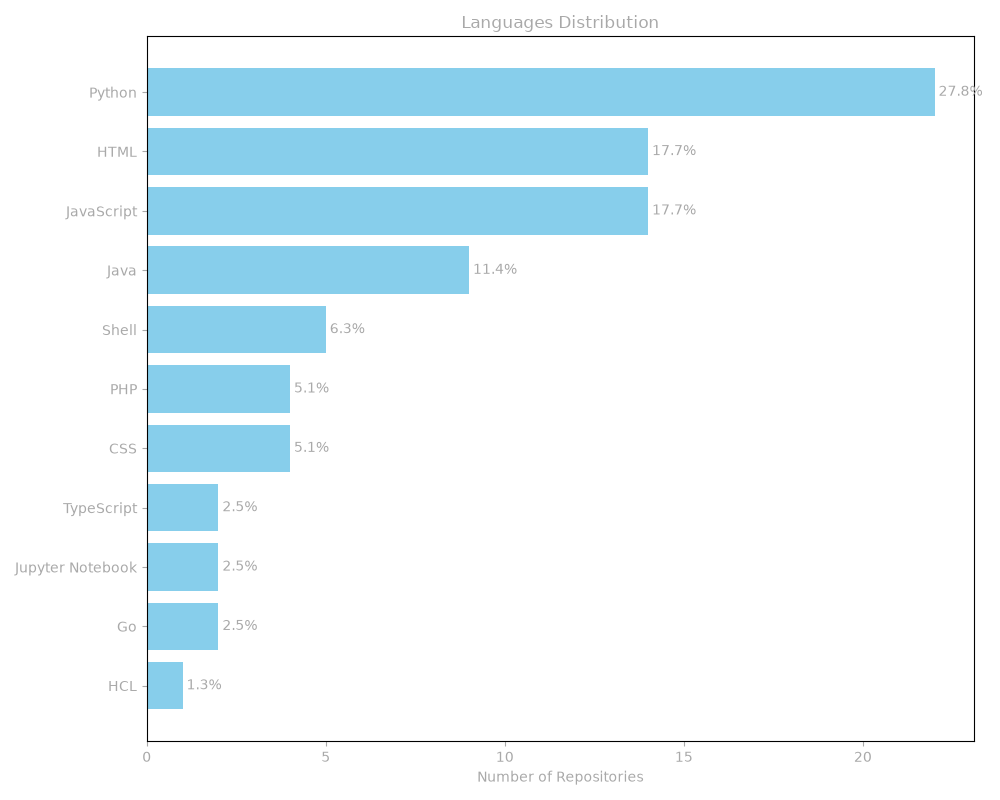
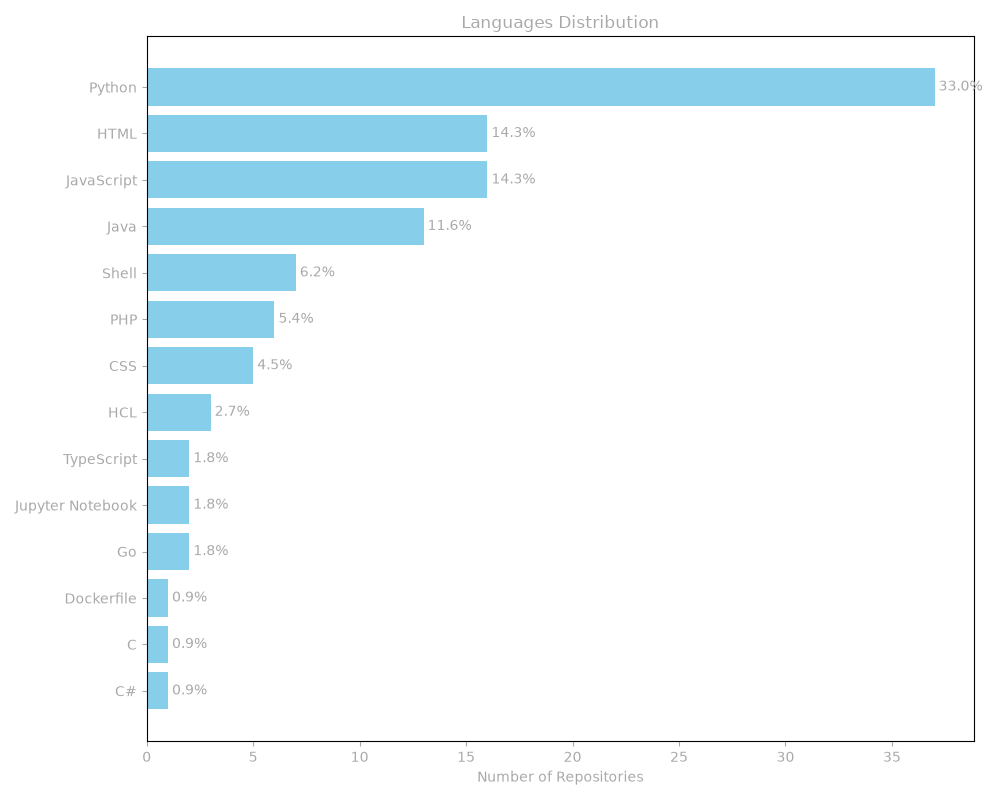
Update GitHub profile

Changed region(s): [[0.0, 0.0938, 0.93, 0.9062], [0.93, 0.0938, 0.992, 0.125], [0.868, 0.9375, 0.899, 0.9688]]

diff --git a/README.md b/README.md
@@ -31,14 +31,12 @@ Hoje, canalizo essa visão em projetos que unem **backend, pipelines CI/CD e clo
 ---
 
 <!--STATS-START-->
-
 ### 📊 **GitHub Stats**
-
 - 👥 Followers: **`92`**
-- 📦 Public Repositories: **`100`**
-- 🌟 Earned stars: **`4`**
+- 📦 Public Repositories: **`135`**
+- 🌟 Earned stars: **`6`**
 - 💬 Most used languages: **`Python, JavaScript, HTML`**
-- 🕓 Latest update: **`2026-11-01 12:22 UTC`**
+- 🕓 Latest update: **`2026-11-02 09:27 America/Sao_Paulo`**
 <!--STATS-END-->
 
 ---
